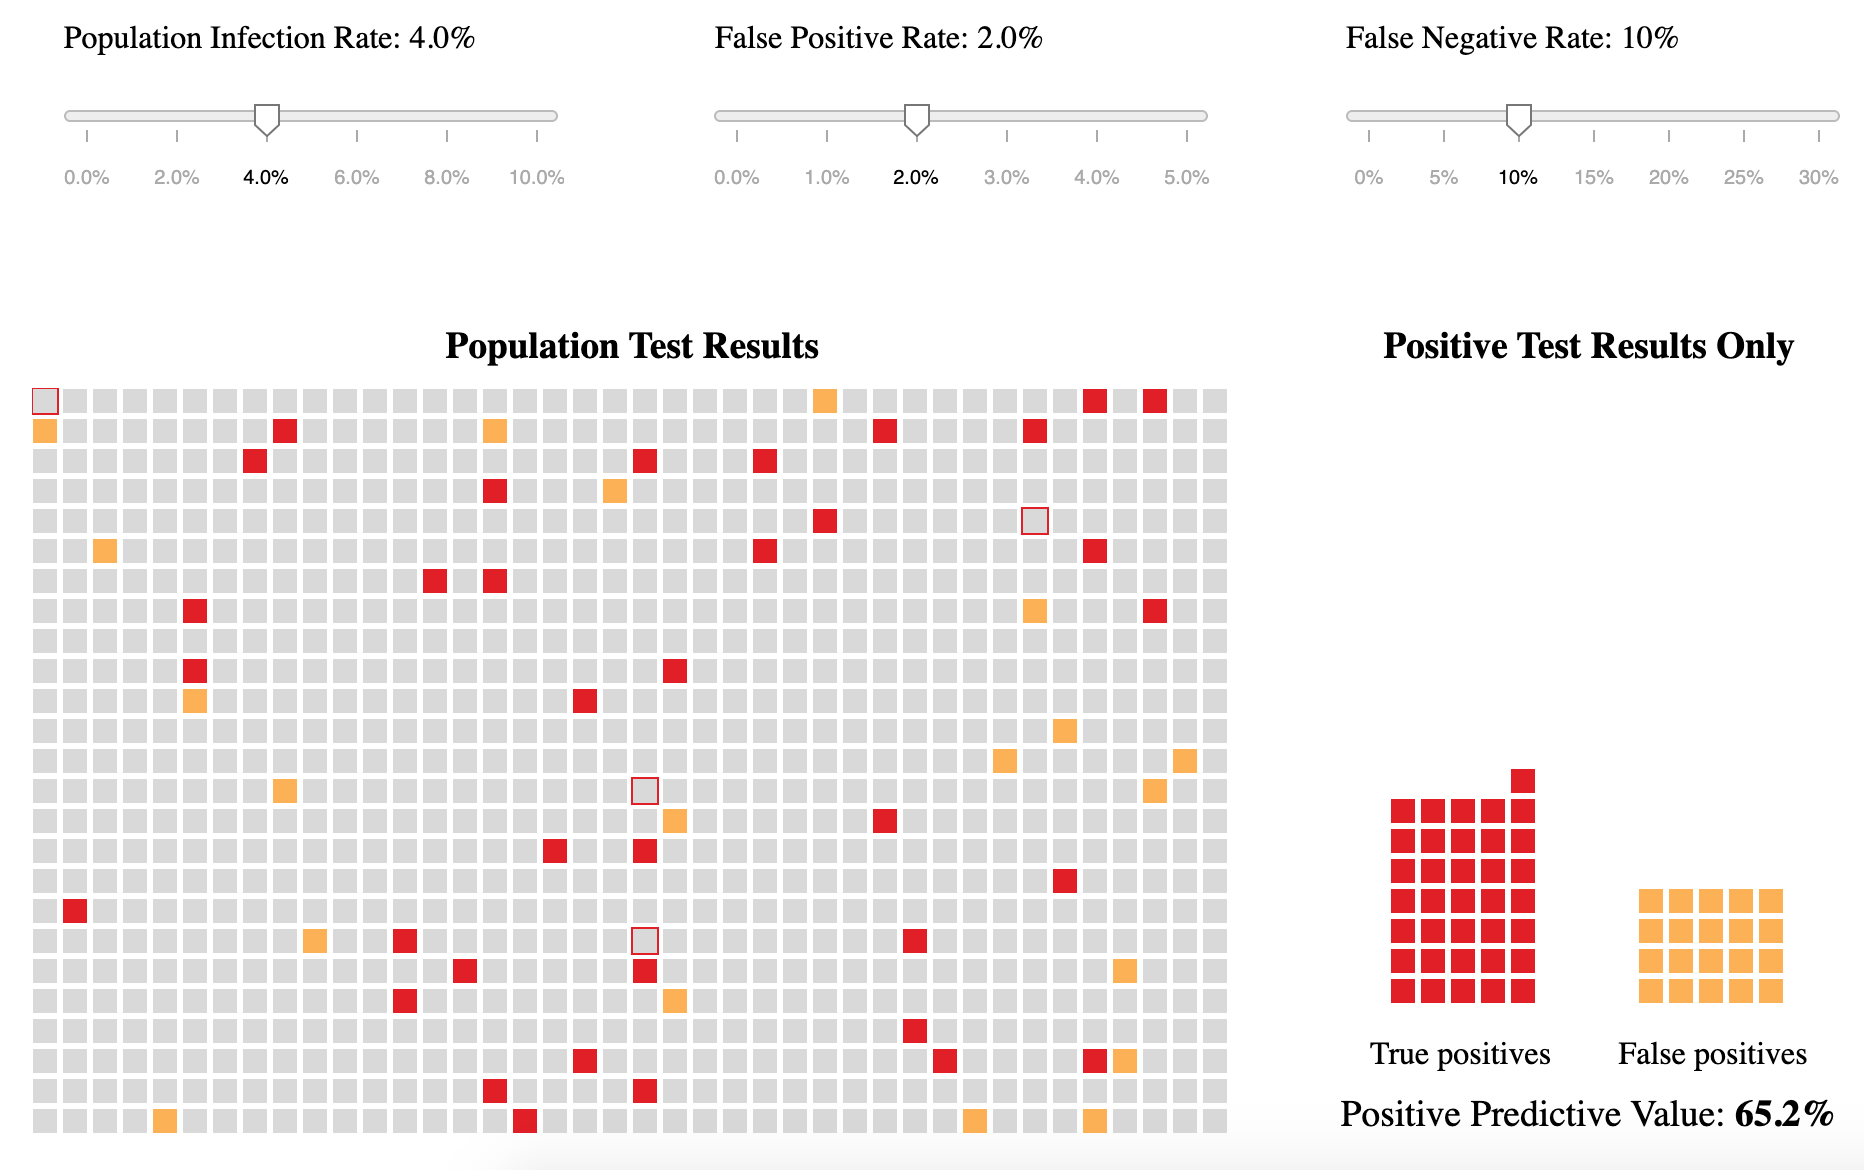
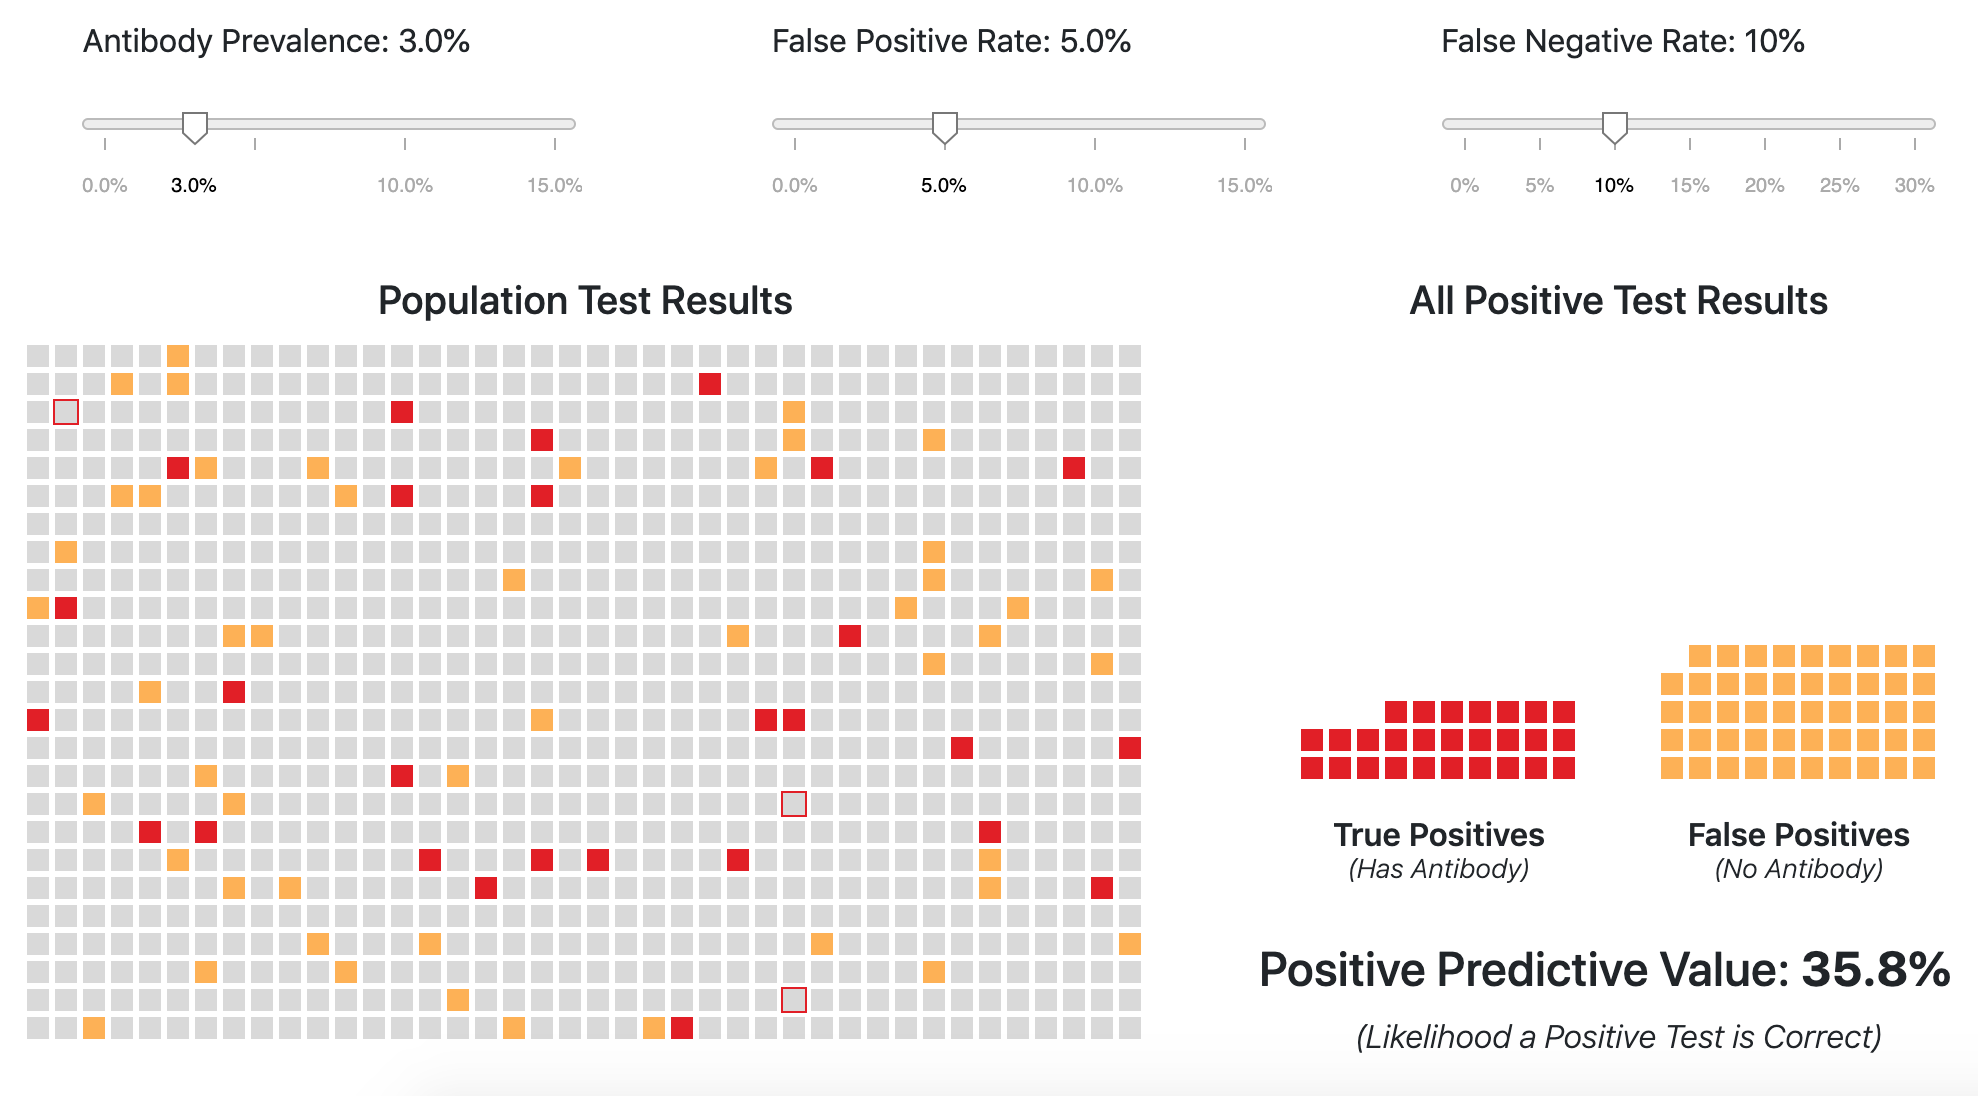
updating readme

diff --git a/README.md b/README.md
@@ -1,10 +1,10 @@
 ## Positive Predictive Value Calculator
 
-This work consists of an interactive [visualization](https://yungster.github.io/positive-predictive-value/) of the positive predictive value (i.e. precision) of a test given a base rate for a population. The positive predictive value of a test gives the probability of having a condition given a positive test result for a test of that condition.
+This work consists of an interactive [visualization](https://yungster.github.io/positive-predictive-value/) of the positive predictive value (i.e. precision) of a COVID-19 antibody test given the antibody prevalence in a population (i.e. the fraction of the population that possesses COVID-19 antibodies). The positive predictive value of a test gives the probability of having a condition given a positive test result for a test of that condition.
 
-The population prevalence for the condition being tested for is used as the prior probability. In the context of testing for the COVID-19 virus, this would be the fraction of a certain population that is currently infected. In the case of antibody testing, it is the fraction of the population that possesses the antibody being tested for.
+While this tool presents the result in the context of COVID-19 antibody testing, it can apply to population testing for any condition. For example, in the context of testing for the COVID-19 virus, the selected prevalence would be the fraction of a population that is currently infected with the virus.
 
-The calculator updates the positive predictive value based on user selections for the prevalence in the population and the false positive/negative rates for the test.
+The calculator updates the positive predictive value based on user selections for the prevalence in the population and the false positive/negative rates for the test. The population prevalence is used as the prior probability for possessing antibodies. 
 
 ![Demo Graphic](/img/app_preview.png)
 
